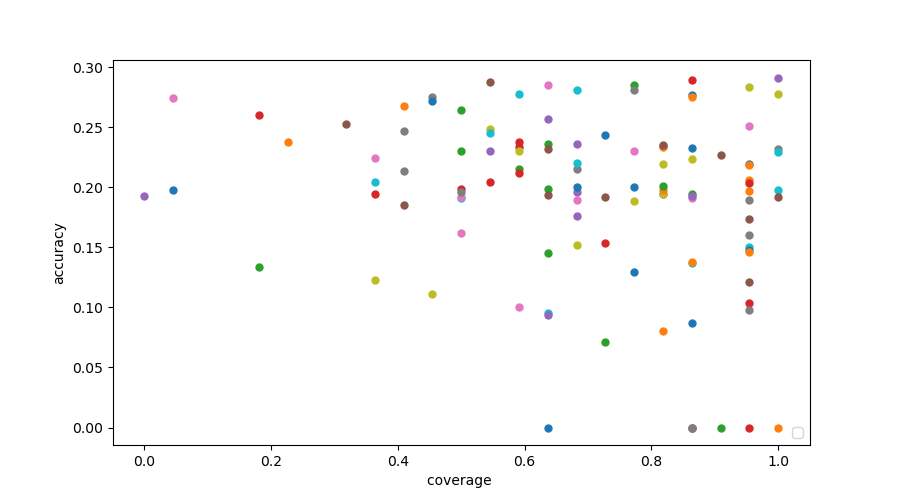
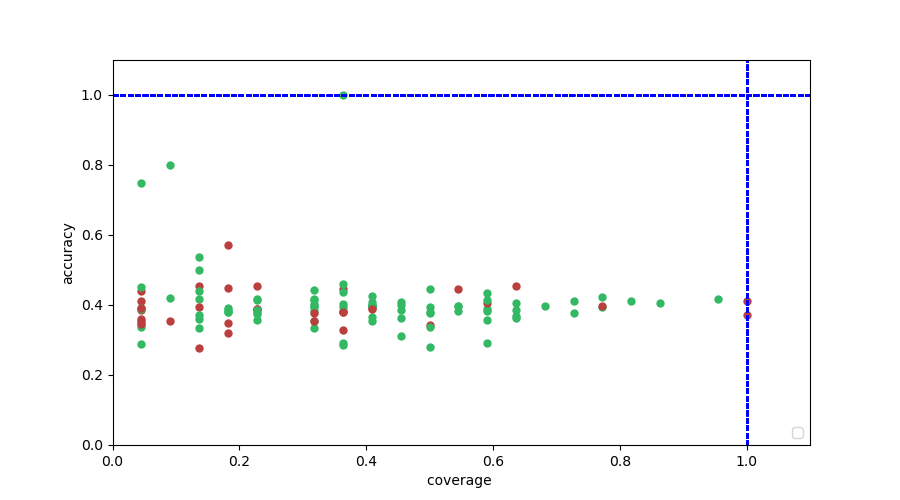
finish information model

diff --git a/rule_based_decision_making.py b/rule_based_decision_making.py
@@ -78,7 +78,7 @@ class rule_state_machine:
             scale = 0.1 * sample_state[1][i] + 1
             locs =  sample_state[0][i]
             self.information_matrix += gauss(locs, scale)
-        # print(self.information_matrix)
+        print(self.information_matrix)
 
     def handle_information_accuracy(self):
         mm, data_state = self.env.get_data_state()
@@ -87,7 +87,7 @@ class rule_state_machine:
         for col in range(data_state.shape[1]): 
             if col in loc_state[0]:
                 effective_data = data_state[:,col][np.nonzero(data_state[:,col])]
-                print(effective_data)
+                # print(effective_data)
                 median = np.median(effective_data) 
                 k1 = 1.4826
                 mad = k1 * np.median(np.abs(effective_data-median))
@@ -103,7 +103,7 @@ class rule_state_machine:
                     self.accuracy_matrix.append(total_cost)
             else:
                 self.accuracy_matrix.append(0)
-        # print(self.accuracy_matrix)
+        print(self.accuracy_matrix)
 
 
     def handle_feature_point_detection(self):
@@ -140,15 +140,16 @@ class rule_state_machine:
                 self.current_state = 2
     
     def information_model(self):
-        coverage_criteria = (len(self.information_matrix[self.information_matrix
-                             < 0.8]) / 22)
+        self.coverage_criteria = (len(self.information_matrix[self.information_matrix
+                             > 0.3]) / 22)
         accuracy_matrix = np.array(self.accuracy_matrix)
-        print(accuracy_matrix)
-        accuracy_criteria = (len(accuracy_matrix[(accuracy_matrix < 0.6) & (accuracy_matrix != 0)]) /
+        # print(accuracy_matrix)
+        self.accuracy_criteria = (len(accuracy_matrix[(accuracy_matrix > 0.6) & (accuracy_matrix != 0)]) /
                         len(accuracy_matrix[accuracy_matrix != 0]))
-        print(coverage_criteria)
-        print(accuracy_criteria)
-        self.plot(coverage_criteria, accuracy_criteria)
+        
+        print(self.accuracy_criteria)    # percentage of locs which the accuracy is lower than 0.6
+        print(self.coverage_criteria)    # percentage of locs which the information is lower than 0.8
+        
 
     def take_action(self):
         if(self.current_state == 0):
@@ -173,7 +174,7 @@ class rule_state_machine:
                     add_samples.append(3)
             self.env.set_action(add_loc, add_samples)
 
-    def plot(self, x, y):
+    def plot(self, color):
         myparams = {
 
         'axes.labelsize': '10',
@@ -196,13 +197,18 @@ class rule_state_machine:
         # line_styles=['ro-','b^-','gs-','ro--','b^--','gs--']  #线型设置
         
         fig1 = plt.figure(1)
-        a = plt.plot(x, y ,marker='o',
+        a = plt.plot(self.coverage_criteria, self.accuracy_criteria ,marker='o', color=sns.xkcd_rgb[color],
                 markersize=5)
         
         plt.legend(loc="lower right")  #图例位置 右下角
         plt.ylabel('accuracy') 
         plt.xlabel('coverage ') 
+        plt.xlim((0, 1.1))
+        plt.ylim((0, 1.1))
+        plt.axvline(x=1, c="b", ls="--", lw=1)
+        plt.axhline(y=1, c="b", ls="--", lw=1)
         plt.savefig('xxx0-10-0.png')
+
         #注意.show()操作后会默认打开一个空白fig,此时保存,容易出现保存的为纯白背景,所以请在show()操作前保存fig.
         # plt.show()
 

diff --git a/user_analysis.py b/user_analysis.py
@@ -18,21 +18,36 @@ from rule_based_decision_making import *
 source_path = 'usersdata/'
 user_list = os.listdir(source_path)
 DM = rule_state_machine()
+json_list = []
 for i in user_list:
     with open(source_path + i) as f:
         json_obj = json.load(f)
-        data_version = json_obj['isAlternativeHypo']      # 0-the right 1-the wrong hypo
-        state = [[],[]]
-        for i in range(len(json_obj['rows'])):
-            if(json_obj['rows'][i]['roc'] == "I don\u2019t have enough information to make a confidence judgment"):
-                state[0].append(json_obj['rows'][i]['index'])
-                state[1].append(json_obj['rows'][i]['measurements'])
-            else:
-                state[0].append(json_obj['rows'][i]['index'])
-                state[1].append(json_obj['rows'][i]['measurements'])
-                break
-        print(state)
-        DM.env.set_state(state)
-        DM.handle_information_accuracy()
-        DM.handle_information_coverage()
-        DM.information_model()
+        json_list.append(json_obj)
+
+for json_obj in json_list:
+# json_obj = json_list[0]
+    data_version = json_obj['isAlternativeHypo']      # 0-the right 1-the wrong hypo
+    user_conclusion = json_obj['concludeQuestions']['support']
+    state = [[],[]]
+    for i in range(len(json_obj['rows'])):
+        if(json_obj['rows'][i]['roc'] == "I don\u2019t have enough information to make a confidence judgment"):
+            state[0].append(json_obj['rows'][i]['index'])
+            state[1].append(json_obj['rows'][i]['measurements'])
+        else:
+            state[0].append(json_obj['rows'][i]['index'])
+            state[1].append(json_obj['rows'][i]['measurements'])
+            break
+    print('-------------------------------------------------------------')
+    print(state)
+    DM.env.set_state(state)
+    DM.handle_information_accuracy()
+    DM.handle_information_coverage()
+    DM.information_model()
+    if(data_version == False and user_conclusion == 'Yes'):
+        DM.plot('cool green')
+    if(data_version == True and user_conclusion == 'No'):
+        DM.plot('cool green')
+    if(data_version == False and user_conclusion == "No"):
+        DM.plot('dull red')
+    if(data_version == True and user_conclusion == "Yes"):
+        DM.plot('dull red')
